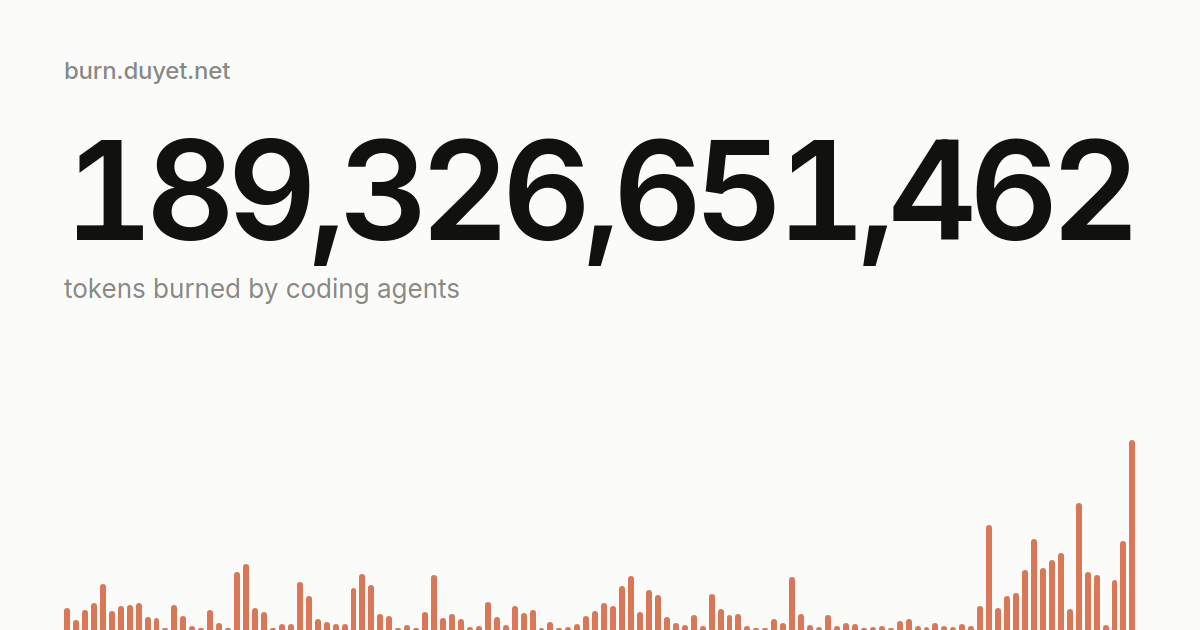
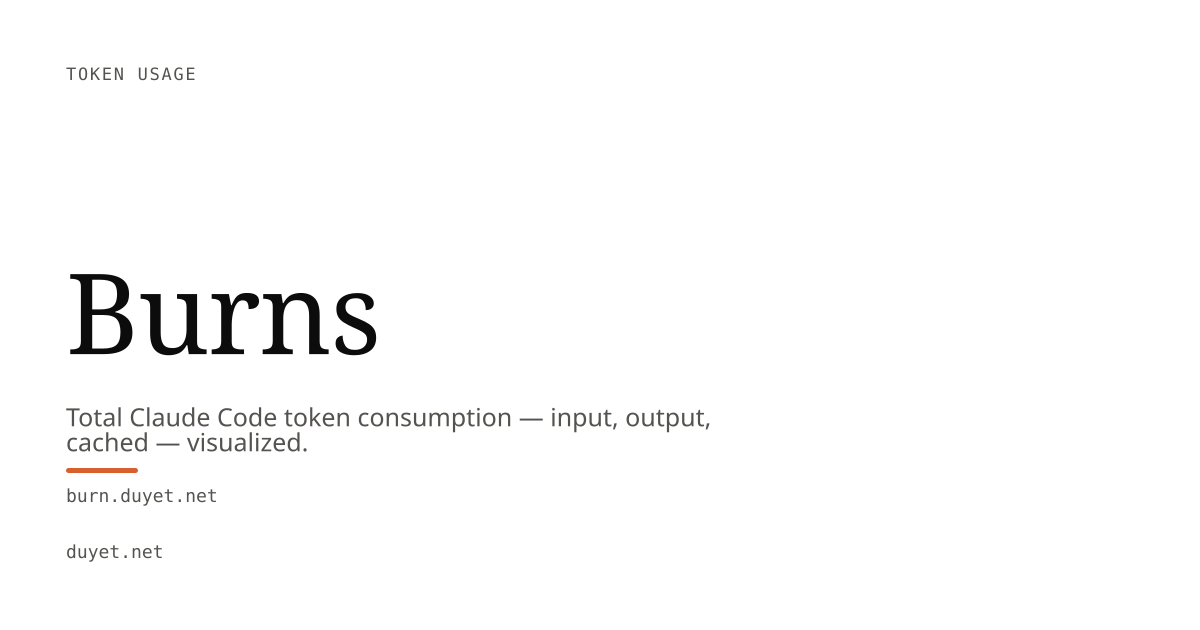
fix(og): standardize committed OG cards to og.png 1200x630 across homelab and x-algo

diff --git a/apps/x-algo/src/routes/__root.tsx b/apps/x-algo/src/routes/__root.tsx
@@ -35,7 +35,7 @@ function NotFoundComponent() {
   );
 }
 
-const ogImage = `${SITE_URL}/og.jpg`;
+const ogImage = `${SITE_URL}/og.png`;
 
 export const Route = createRootRoute({
   head: () => ({
@@ -52,8 +52,8 @@ export const Route = createRootRoute({
       { property: "og:url", content: SITE_URL },
       { property: "og:image", content: ogImage },
       { property: "og:image:alt", content: SITE_TITLE },
-      { property: "og:image:width", content: "1280" },
-      { property: "og:image:height", content: "720" },
+      { property: "og:image:width", content: "1200" },
+      { property: "og:image:height", content: "630" },
       { name: "twitter:card", content: "summary_large_image" },
       { name: "twitter:title", content: SITE_TITLE },
       { name: "twitter:description", content: SITE_DESCRIPTION },

diff --git a/packages/config/src/app.config.ts b/packages/config/src/app.config.ts
@@ -71,7 +71,7 @@ export const homelabConfig = {
       siteName: "duyet.net",
       images: [
         {
-          url: "https://homelab.duyet.net/og-image.png",
+          url: "https://homelab.duyet.net/og.png",
           width: 1200,
           height: 630,
           alt: "Homelab Dashboard - MicroK8s Cluster Monitoring",
@@ -85,7 +85,7 @@ export const homelabConfig = {
       title: "Homelab Dashboard | duyet.net",
       description:
         "MicroK8s cluster monitoring - Real-time metrics and service status",
-      images: ["https://homelab.duyet.net/og-image.png"],
+      images: ["https://homelab.duyet.net/og.png"],
       creator: "@_duyet",
     },
     icons: {

diff --git a/apps/homelab/scripts/generate-og.ts b/apps/homelab/scripts/generate-og.ts
@@ -1,5 +1,5 @@
 /**
- * Render the homelab Open Graph card to `public/og-image.png`.
+ * Render the homelab Open Graph card to `public/og.png`.
  *
  * Run with `pnpm run og:card` from `apps/homelab`. The output is committed, so
  * this is a maintenance script, not a build step — prerendered HTML can only
@@ -20,7 +20,7 @@ import { DARK_THEME, renderOgCard } from "@duyet/config/og-card";
 import { fileURLToPath } from "node:url";
 
 const outPath = fileURLToPath(
-  new URL("../public/og-image.png", import.meta.url),
+  new URL("../public/og.png", import.meta.url),
 );
 
 const { path, usedImage } = await renderOgCard(

diff --git a/apps/x-algo/scripts/generate-og.ts b/apps/x-algo/scripts/generate-og.ts
@@ -1,0 +1,18 @@
+import { renderOgCard } from "@duyet/config/og-card";
+import { fileURLToPath } from "node:url";
+import { SITE_DESCRIPTION, SITE_TITLE } from "../src/lib/scoring";
+
+const outPath = fileURLToPath(new URL("../public/og.png", import.meta.url));
+
+const { path, usedImage } = await renderOgCard(
+  {
+    eyebrow: "Algorithm explainer",
+    title: SITE_TITLE,
+    description: SITE_DESCRIPTION,
+    meta: "x-algo.duyet.net",
+    siteName: "duyet.net",
+  },
+  outPath,
+);
+
+console.log(`og card -> ${path} (type-only: ${!usedImage})`);

diff --git a/packages/config/__tests__/config.test.ts b/packages/config/__tests__/config.test.ts
@@ -47,7 +47,7 @@ describe("@duyet/config", () => {
 
       expect(prop("og:url")).toBe("https://homelab.duyet.net");
       expect(prop("og:title")).toBe("Homelab Dashboard | duyet.net");
-      expect(prop("og:image")).toBe("https://homelab.duyet.net/og-image.png");
+      expect(prop("og:image")).toBe("https://homelab.duyet.net/og.png");
       expect(prop("og:locale")).toBe("en_US");
       expect(named("twitter:card")).toBe("summary_large_image");
       expect(named("twitter:creator")).toBe("@_duyet");

diff --git a/apps/homelab/src/routes/__root.tsx b/apps/homelab/src/routes/__root.tsx
@@ -24,7 +24,7 @@ const HOMELAB_URL =
   homelabConfig.metadata.openGraph?.url ?? "https://homelab.duyet.net";
 
 /**
- * The config supplies the image URL (`/og-image.png`, generated by
+ * The config supplies the image URL (`/og.png`, generated by
  * `pnpm run og:card` from `scripts/generate-og.ts`) and the real `@_duyet`
  * handle. Only the title and description are overridden, so the OG copy
  * matches what the page actually renders.
